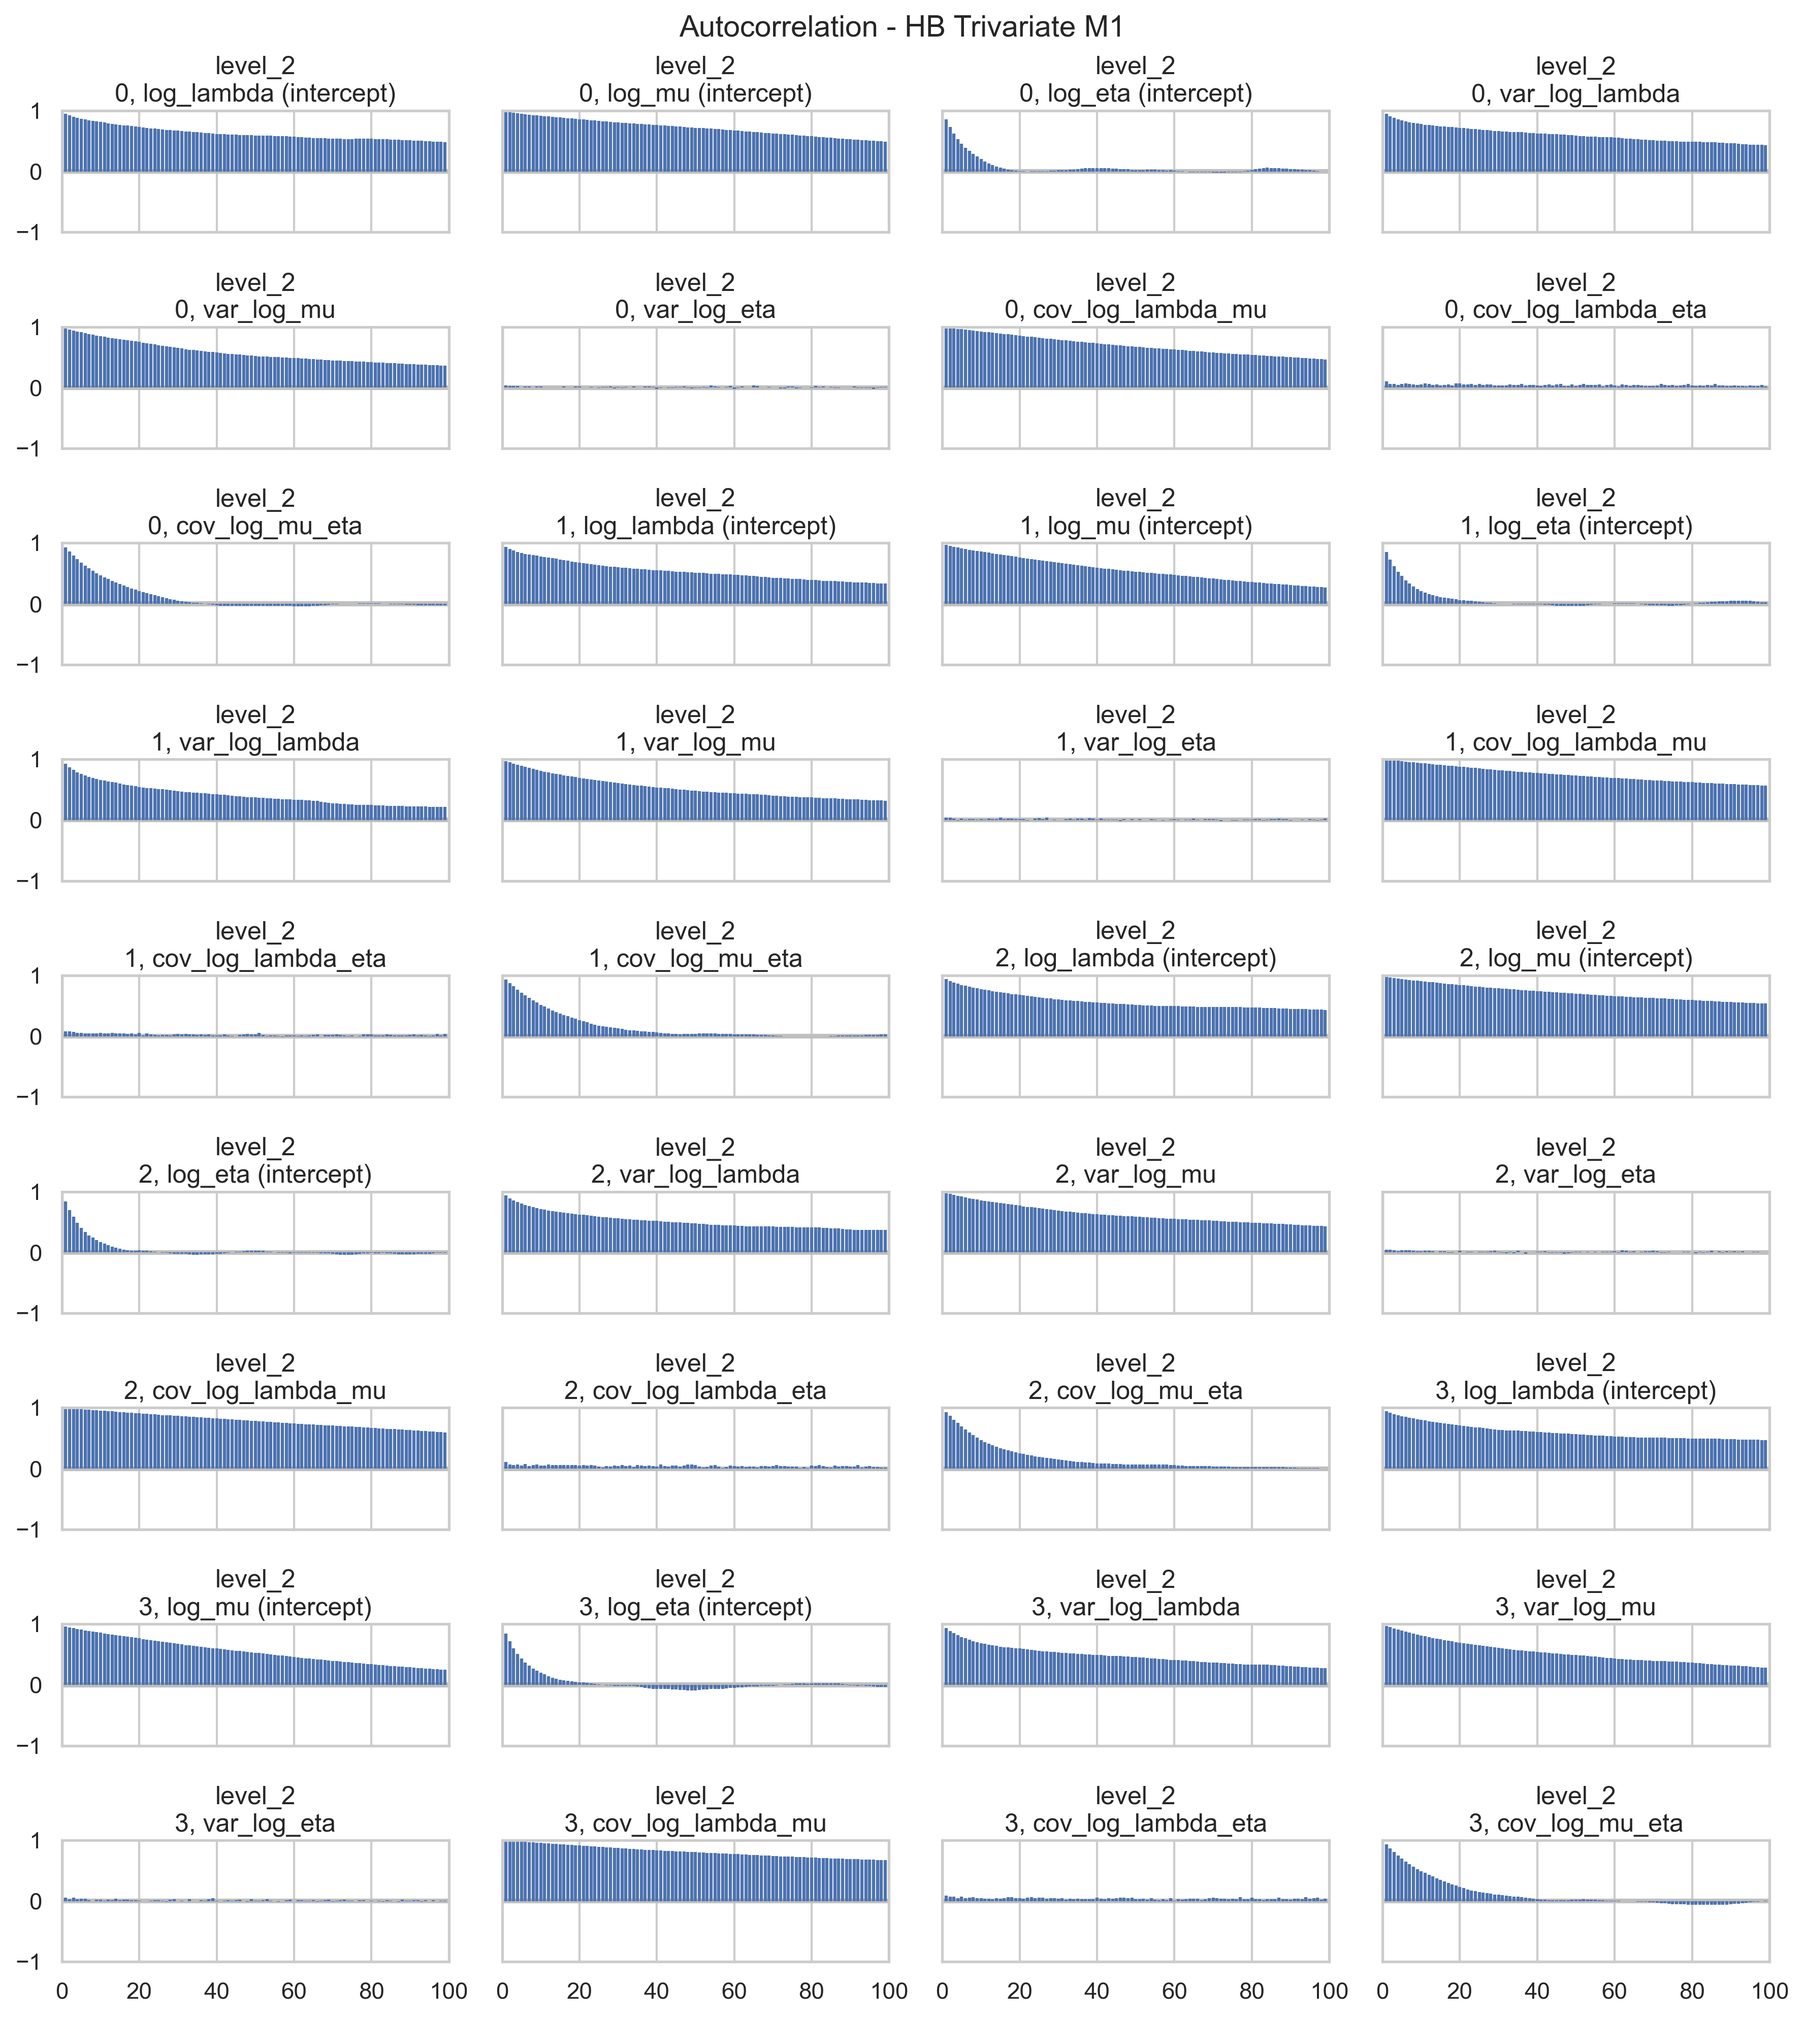
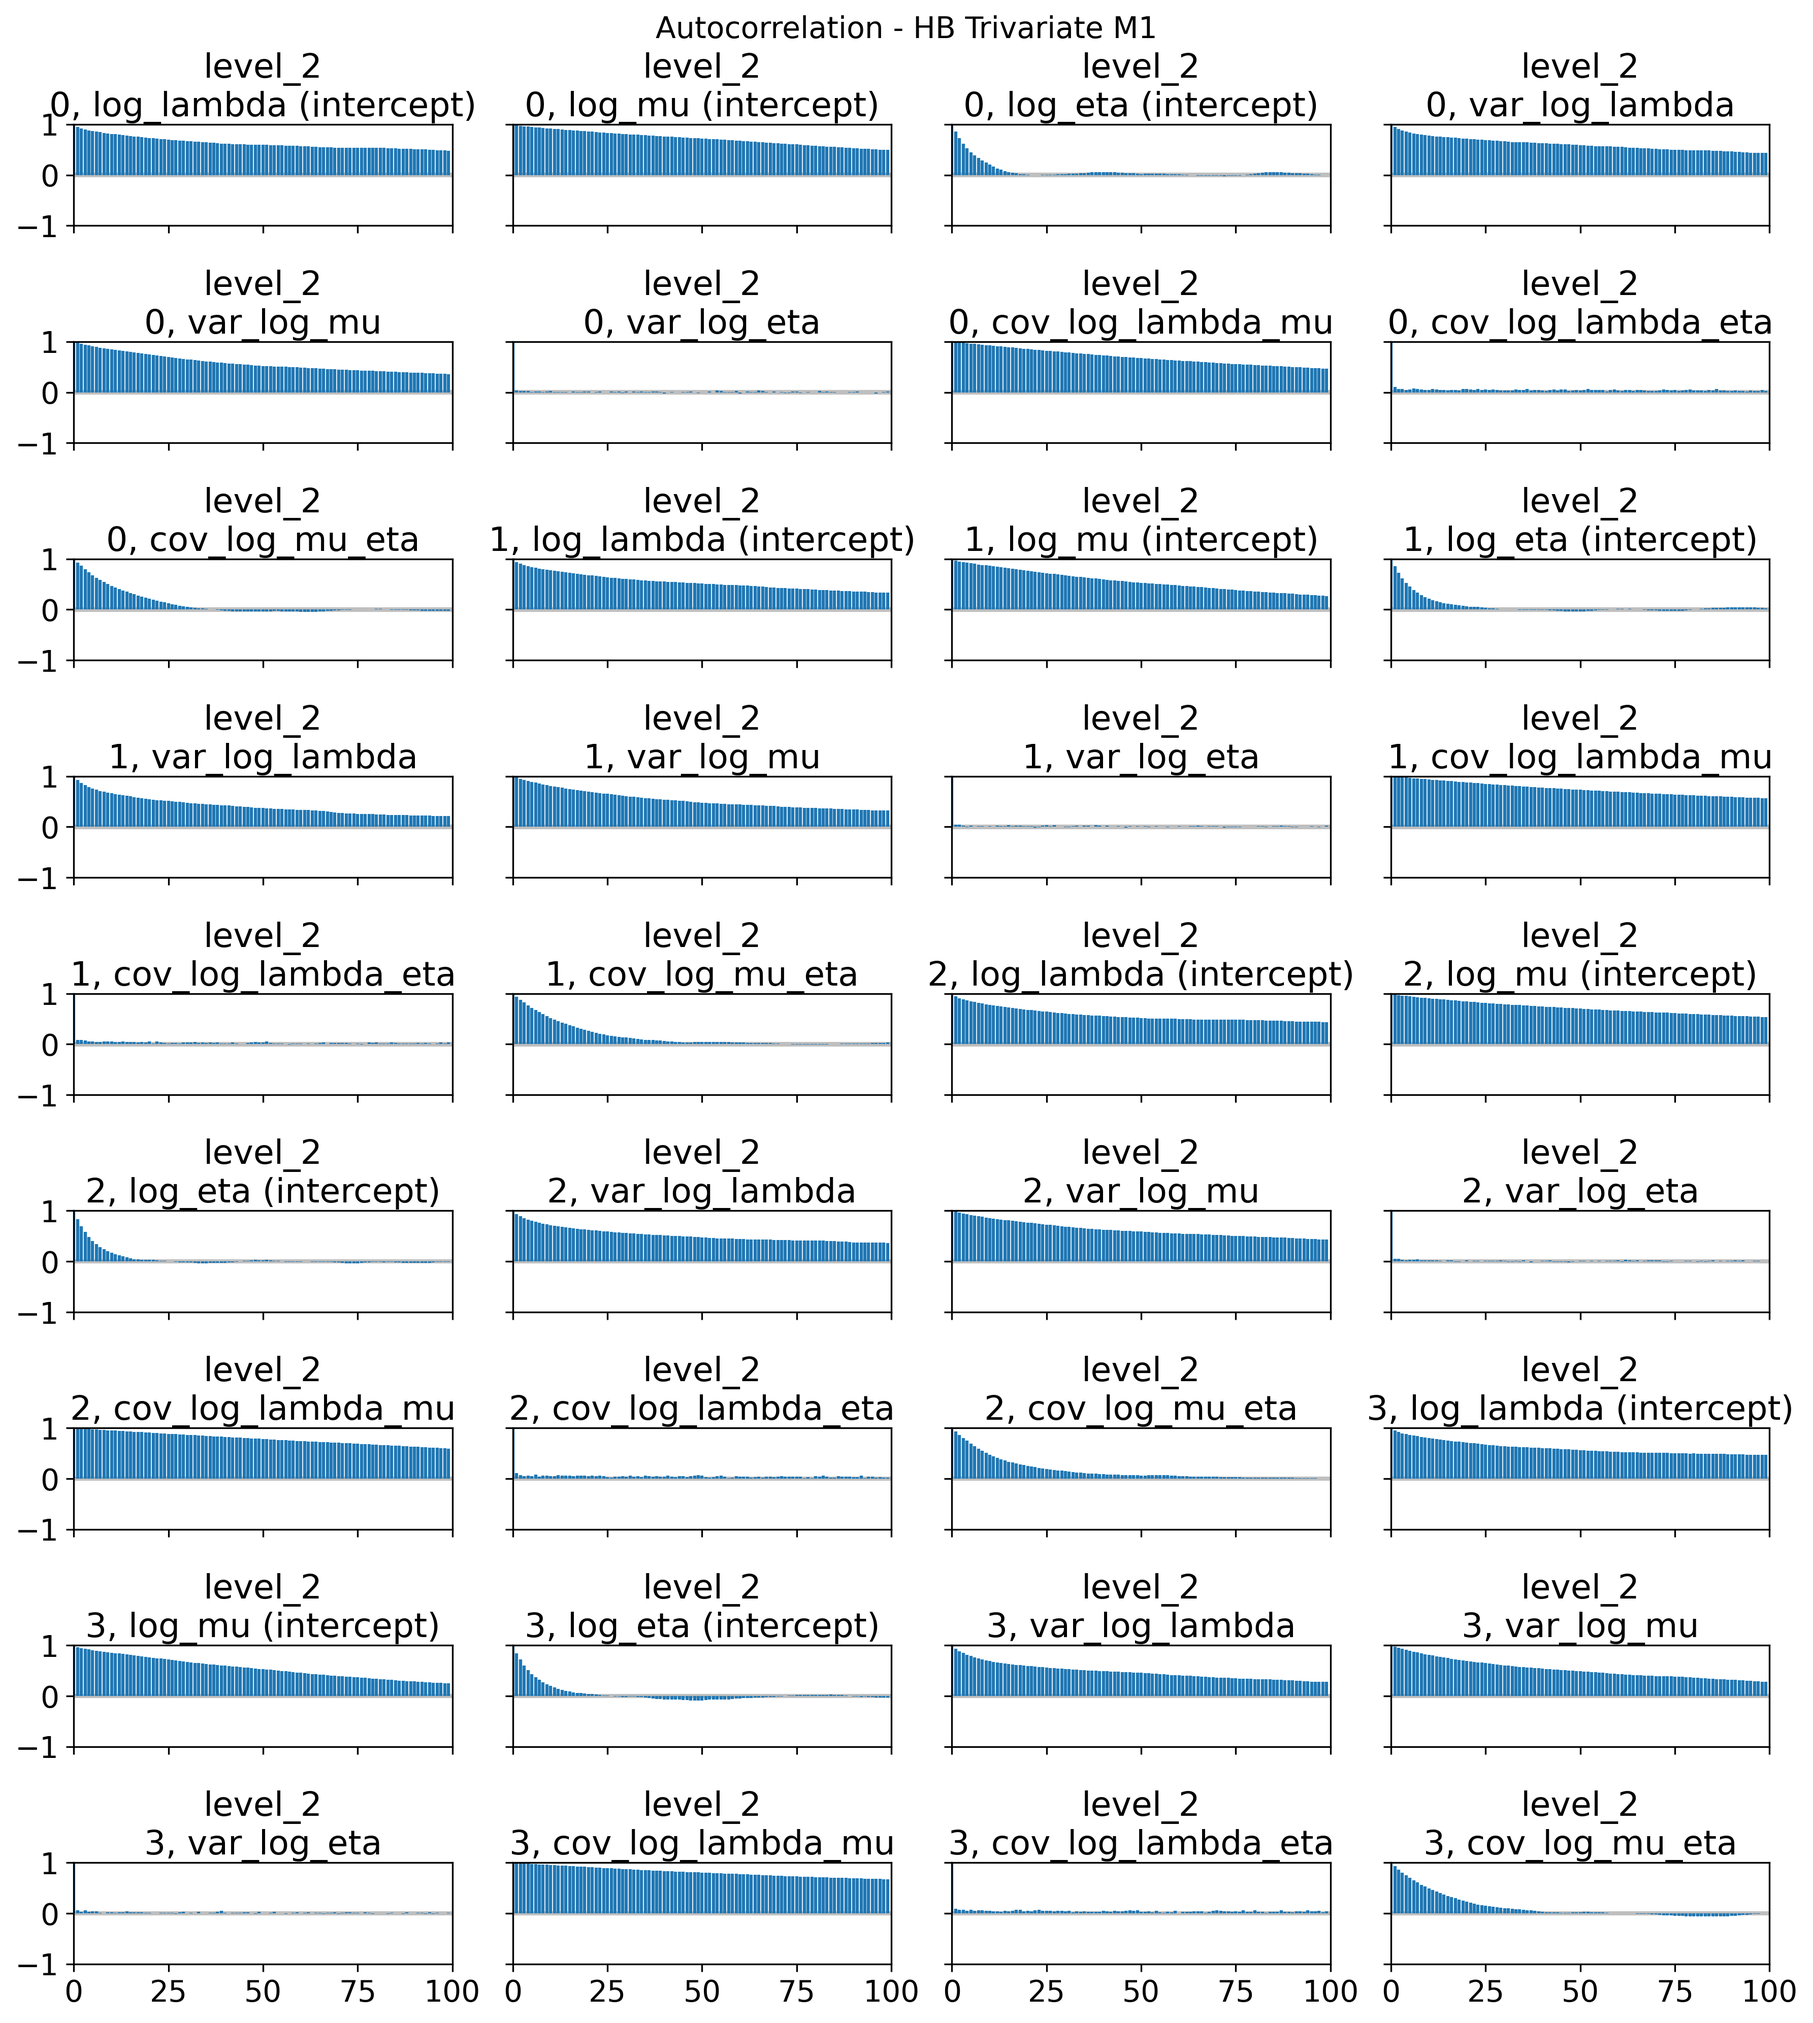
Updated Traceplots

Changed region(s): [[0.0, 0.0, 1.0, 0.9985]]

diff --git a/src/full_analysis.py b/src/full_analysis.py
@@ -842,35 +842,54 @@ plt.show()
 
 # %% 11. Traceplots
 # -- 11. Traceplots
-# Path to save the figures:
 plots_path = os.path.join(save_figures_path, "SamplingPlots")
 
-# Convert Bivariate M1 to InferenceData
+# Convert Bivariate M1 to InferenceData with full dims
+lvl2_bi_m1 = np.array(bi_m1["level_2"])
 idata_bi_m1 = az.from_dict(
-    posterior={"level_2": np.array(bi_m1["level_2"])},
-    coords={"param": param_names_bi_m1},
-    dims={"level_2": ["param"]}
+    posterior={"level_2": lvl2_bi_m1},
+    coords={
+        "chain": np.arange(lvl2_bi_m1.shape[0]),
+        "draw":  np.arange(lvl2_bi_m1.shape[1]),
+        "param": param_names_bi_m1
+    },
+    dims={"level_2": ["chain", "draw", "param"]}
 )
 
-# Convert Bivariate M2 to InferenceData
+# Convert Bivariate M2 to InferenceData with full dims
+lvl2_bi_m2 = np.array(bi_m2["level_2"])
 idata_bi_m2 = az.from_dict(
-    posterior={"level_2": np.array(bi_m2["level_2"])},
-    coords={"param": param_names_bi_m2},
-    dims={"level_2": ["param"]}
+    posterior={"level_2": lvl2_bi_m2},
+    coords={
+        "chain": np.arange(lvl2_bi_m2.shape[0]),
+        "draw":  np.arange(lvl2_bi_m2.shape[1]),
+        "param": param_names_bi_m2
+    },
+    dims={"level_2": ["chain", "draw", "param"]}
 )
 
-# Convert Trivariate M1 to InferenceData
+# Convert Trivariate M1 to InferenceData with full dims
+lvl2_tri_m1 = np.array(tri_m1["level_2"])
 idata_tri_m1 = az.from_dict(
-    posterior={"level_2": np.array(tri_m1["level_2"])},
-    coords={"param": param_names_tri_m1},
-    dims={"level_2": ["param"]}
+    posterior={"level_2": lvl2_tri_m1},
+    coords={
+        "chain": np.arange(lvl2_tri_m1.shape[0]),
+        "draw":  np.arange(lvl2_tri_m1.shape[1]),
+        "param": param_names_tri_m1
+    },
+    dims={"level_2": ["chain", "draw", "param"]}
 )
 
-# Convert Trivariate M2 to InferenceData
+# Convert Trivariate M2 to InferenceData with full dims
+lvl2_tri_m2 = np.array(tri_m2["level_2"])
 idata_tri_m2 = az.from_dict(
-    posterior={"level_2": np.array(tri_m2["level_2"])},
-    coords={"param": param_names_tri_m2},
-    dims={"level_2": ["param"]}
+    posterior={"level_2": lvl2_tri_m2},
+    coords={
+        "chain": np.arange(lvl2_tri_m2.shape[0]),
+        "draw":  np.arange(lvl2_tri_m2.shape[1]),
+        "param": param_names_tri_m2
+    },
+    dims={"level_2": ["chain", "draw", "param"]}
 )
 
 # Traceplots
@@ -880,11 +899,16 @@ for idata, label in [
     (idata_tri_m1, "HB Trivariate M1"),
     (idata_tri_m2, "HB Trivariate M2"),
 ]:
-    az.plot_trace(idata, var_names=["level_2"], figsize=(12, max(4, len(idata.posterior["level_2"].coords["param"]) * 1.5)))
+    plt.close('all')
+    n_params   = len(idata.posterior["level_2"].coords["param"])
+    fig_height = max(4, n_params * 1.5)
+    fig_width  = max(12, n_params * 2)   # keep width ≥ height for readability
+    az.plot_trace(idata, var_names=["level_2"], figsize=(fig_width, fig_height))
     plt.suptitle(f"Traceplot - {label}", fontsize=14, y=1.02)
     plt.tight_layout()
     plt.savefig(os.path.join(plots_path, f"Traceplot_{label.replace(' ', '_')}.png"), dpi=300, bbox_inches='tight')
     plt.show()
+    plt.close()
 
 # Autocorrelation plots
 for idata, label in [
@@ -893,11 +917,13 @@ for idata, label in [
     (idata_tri_m1, "HB Trivariate M1"),
     (idata_tri_m2, "HB Trivariate M2"),
 ]:
+    plt.close('all')
     az.plot_autocorr(idata, var_names=["level_2"], figsize=(12, max(4, len(idata.posterior["level_2"].coords["param"]) * 1.5)))
     plt.suptitle(f"Autocorrelation - {label}", fontsize=14)
     plt.tight_layout()
     plt.savefig(os.path.join(plots_path, f"Autocorr_{label.replace(' ', '_')}.png"), dpi=300, bbox_inches='tight')
     plt.show()
+    plt.close()
 
 # Posterior distributions
 for idata, label in [
@@ -906,6 +932,7 @@ for idata, label in [
     (idata_tri_m1, "HB Trivariate M1"),
     (idata_tri_m2, "HB Trivariate M2"),
 ]:
+    plt.close('all')
     n_params = len(idata.posterior["level_2"].coords["param"])
     az.plot_posterior(
         idata,
@@ -919,10 +946,11 @@ for idata, label in [
     plt.subplots_adjust(hspace=0.5)
     plt.savefig(os.path.join(plots_path, f"PosteriorDist_{label.replace(' ', '_')}.png"), dpi=300, bbox_inches='tight')
     plt.show()
+    plt.close()
 # ------------------------------------------------------------------
 
-# %% 10. BIVARIATE Convergence 
-# -- 10. BIVARIATE Convergence 
+# %% 12. BIVARIATE Convergence 
+# -- 12. BIVARIATE Convergence 
 
 def level2_summary(draws: dict, label: str = "m1") -> pd.DataFrame:
     # ------------------------------------------------------------------
@@ -972,8 +1000,8 @@ with pd.ExcelWriter(excel_path, engine="openpyxl", mode="a", if_sheet_exists="re
     summary_m2.to_excel(writer, sheet_name="Bi_Convergence_M2", index=True)
 # ------------------------------------------------------------------
 
-# %% 11. TRIVARIATE Convergence
-# -- 11. TRIVARIATE Convergence
+# %% 13. TRIVARIATE Convergence
+# -- 13. TRIVARIATE Convergence
 
 def level2_summary_trivar(draws: dict, label: str = "M1") -> pd.DataFrame:
     """
